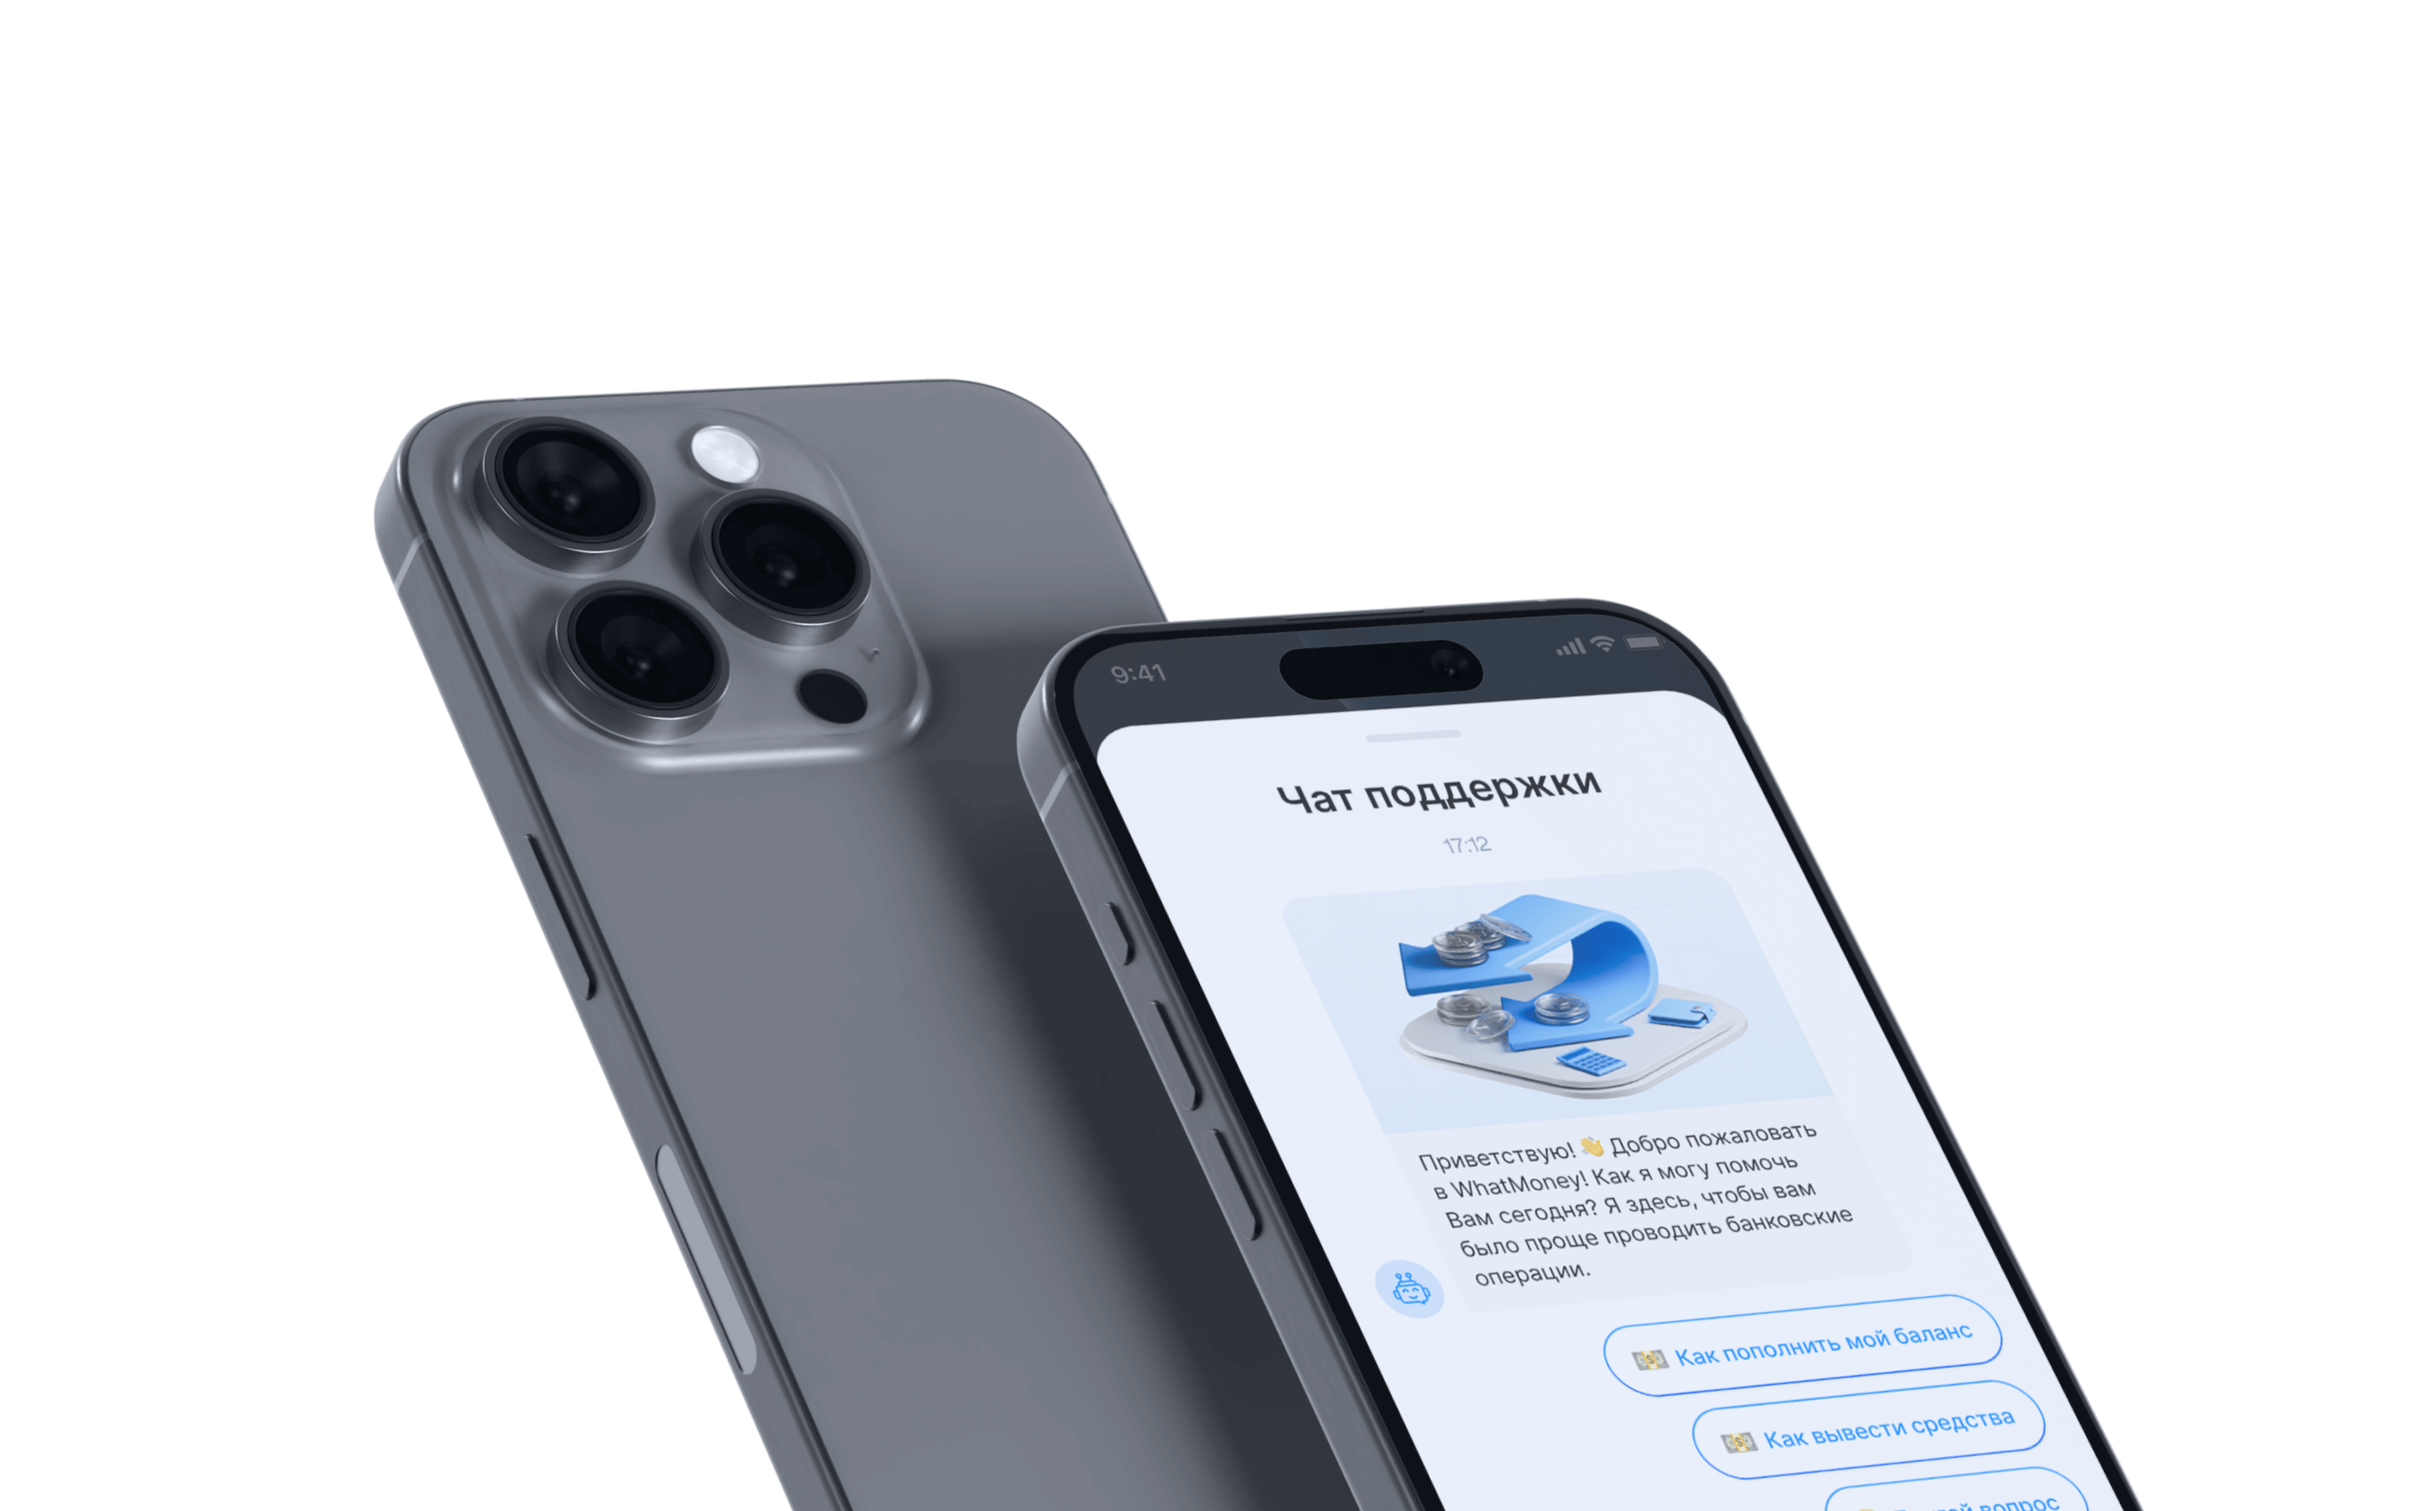
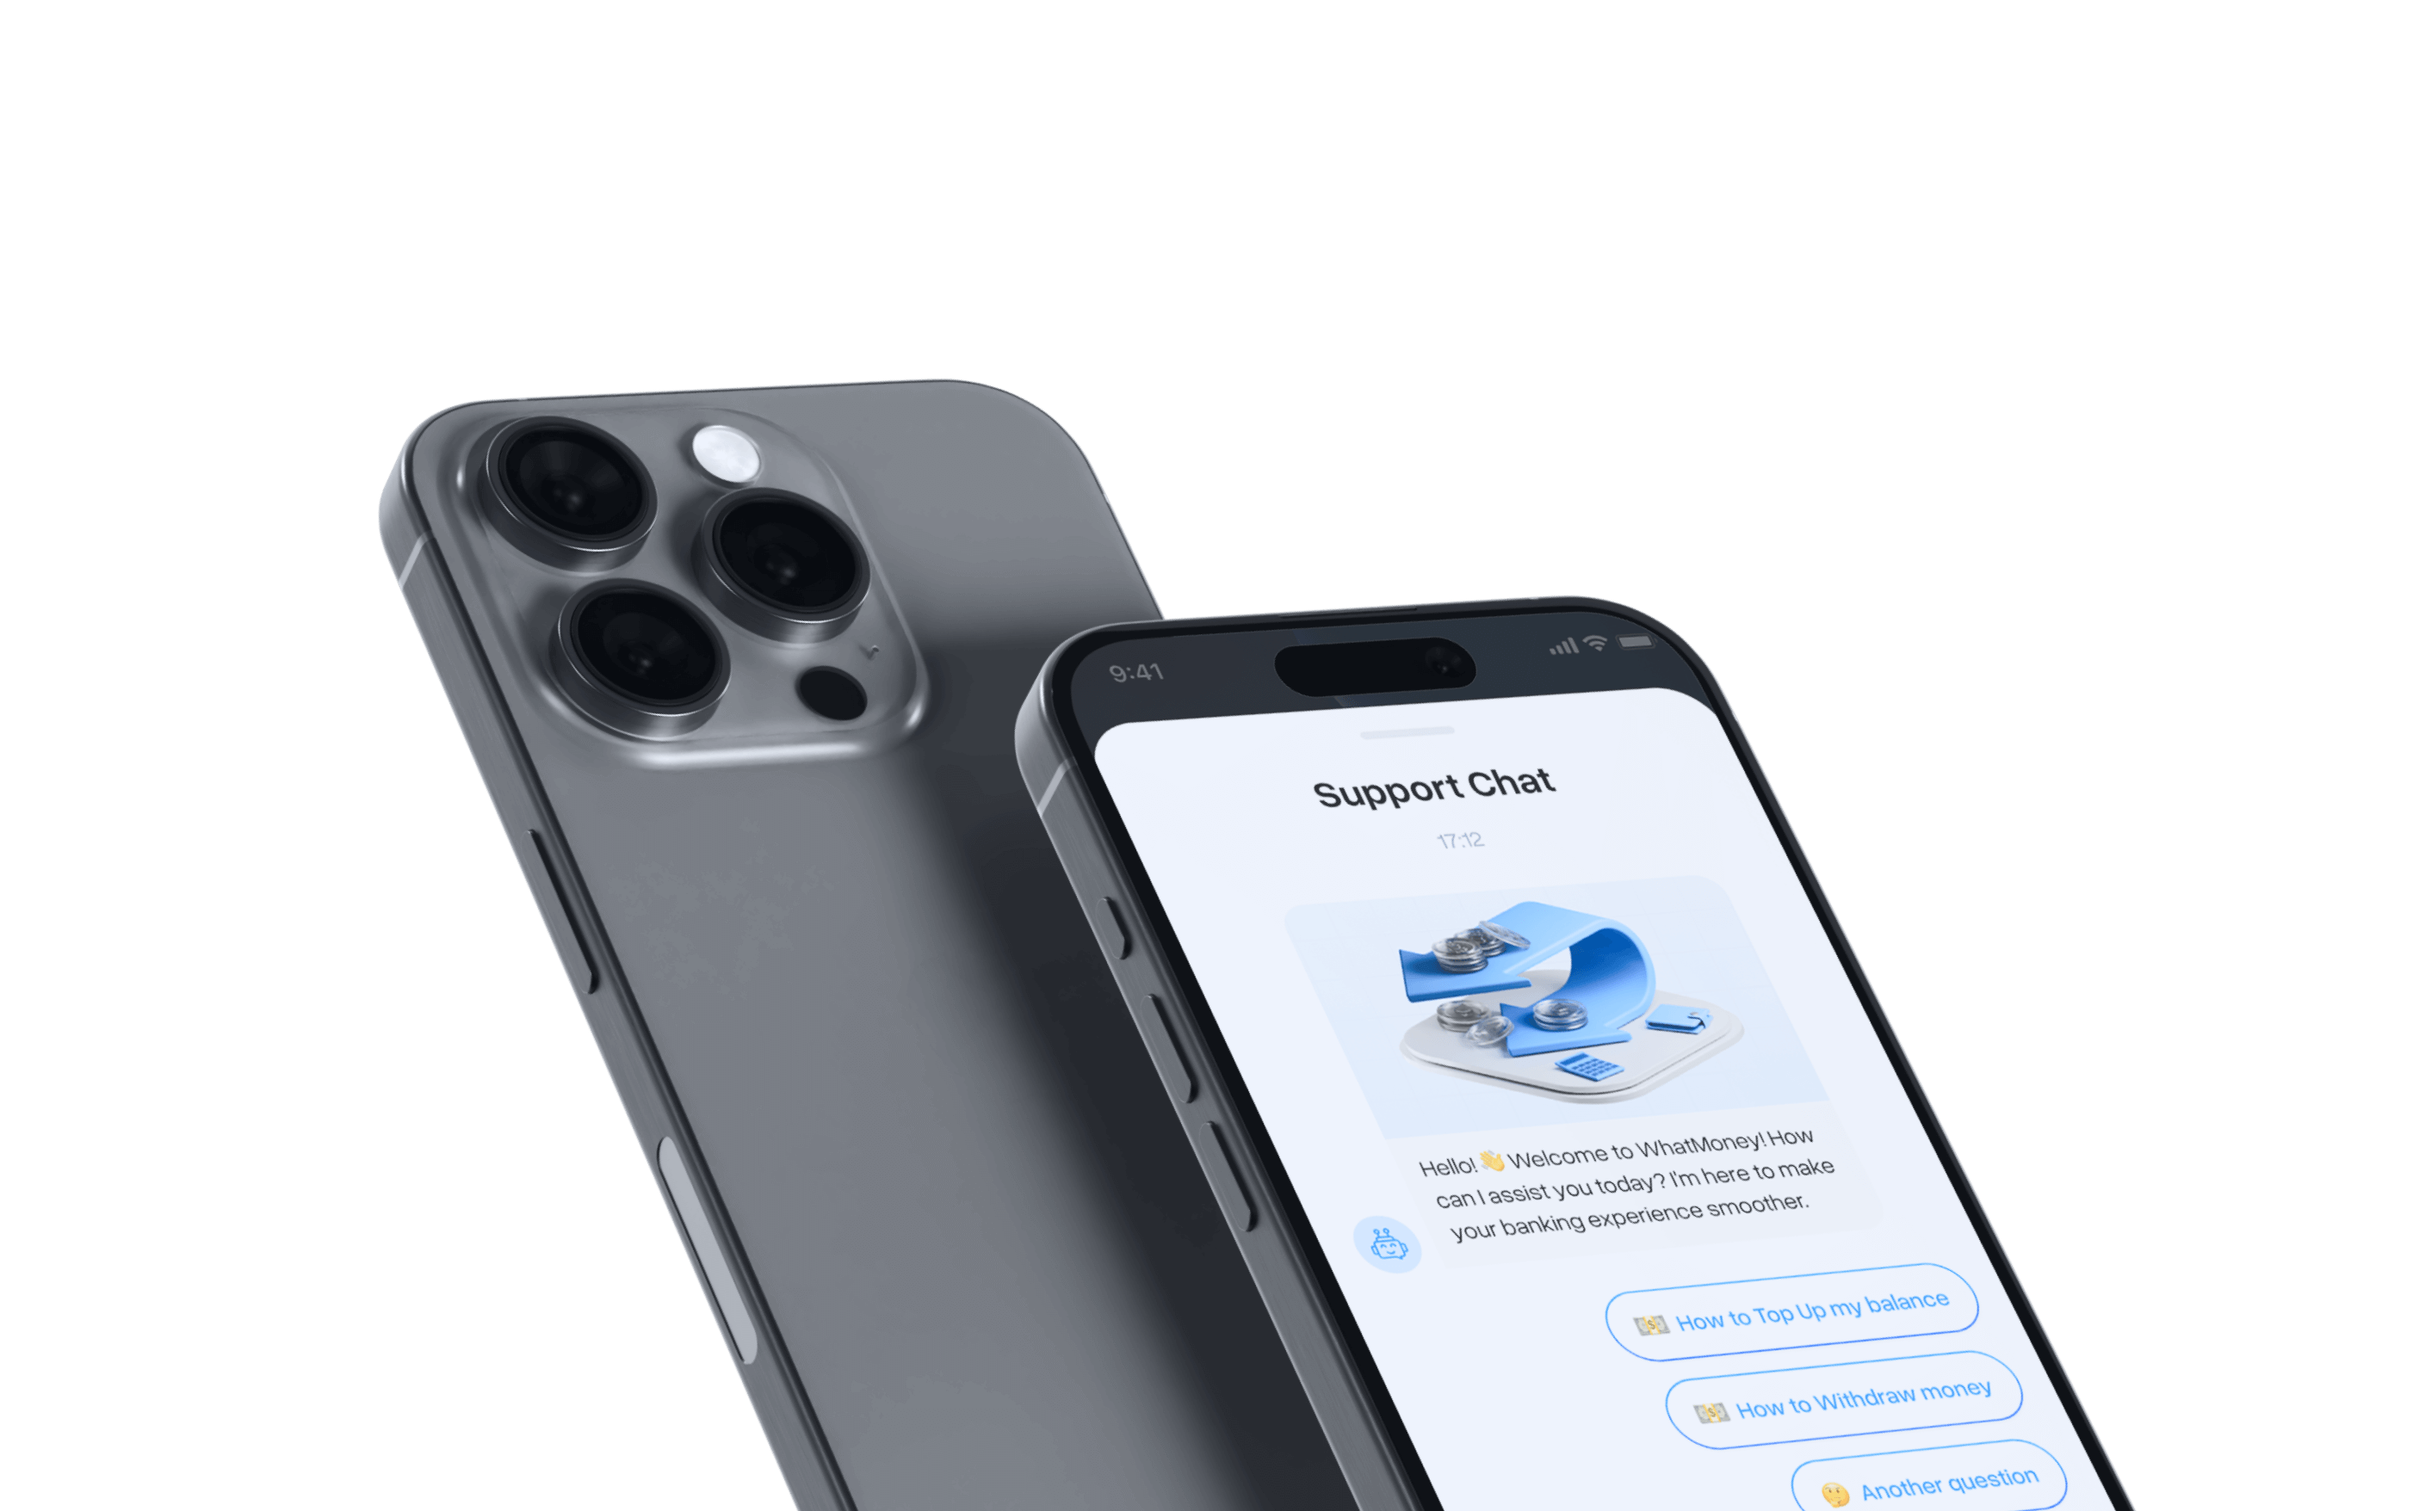
Content finalization RU

diff --git a/index.html b/index.html
@@ -225,7 +225,7 @@
         </div>
       </section>
 
-      <section class="chat-section mb-60">
+      <section class="chat-section ru mb-60">
         <h2 class="text-white-gradient">
           <span class="text-blue-gradient">Круглосуточный чат</span> со службой <br>
           поддержки и курьерами по <br> доставке наличных
@@ -233,9 +233,9 @@
         <div class="iphones parallax-container">
           <div class="parallax-element"></div>
         </div>
-        <img class="conversation-icon" src="./public/media/images/chat/conversation.png" alt="Conversation icon">
-        <img class="user-icon" src="./public/media/images/chat/userLabel.png" alt="User icon">
-        <img class="bot-icon" src="./public/media/images/chat/bot.svg" alt="Bot icon">
+        <img class="conversation-icon" src="./public/media/images/chat/conversationRu.svg" alt="Conversation icon">
+        <img class="user-icon" src="./public/media/images/chat/userLabelRu.png" alt="User icon">
+        <img class="bot-icon" src="./public/media/images/chat/botRu.svg" alt="Bot icon">
         <img class="chat-icon" src="./public/media/images/chat/chatIcon.svg" alt="Chat icon">
       </section>
 

diff --git a/styles/style.css b/styles/style.css
@@ -580,6 +580,11 @@
   will-change: transform;
 }
 
+.chat-section.ru .iphones .parallax-element {
+  background: url("../public/media/images/chat/iphonesRu.png") no-repeat
+    center/contain;
+}
+
 .chat-section .chat-icon {
   transform: scale(0.7);
   opacity: 0;
